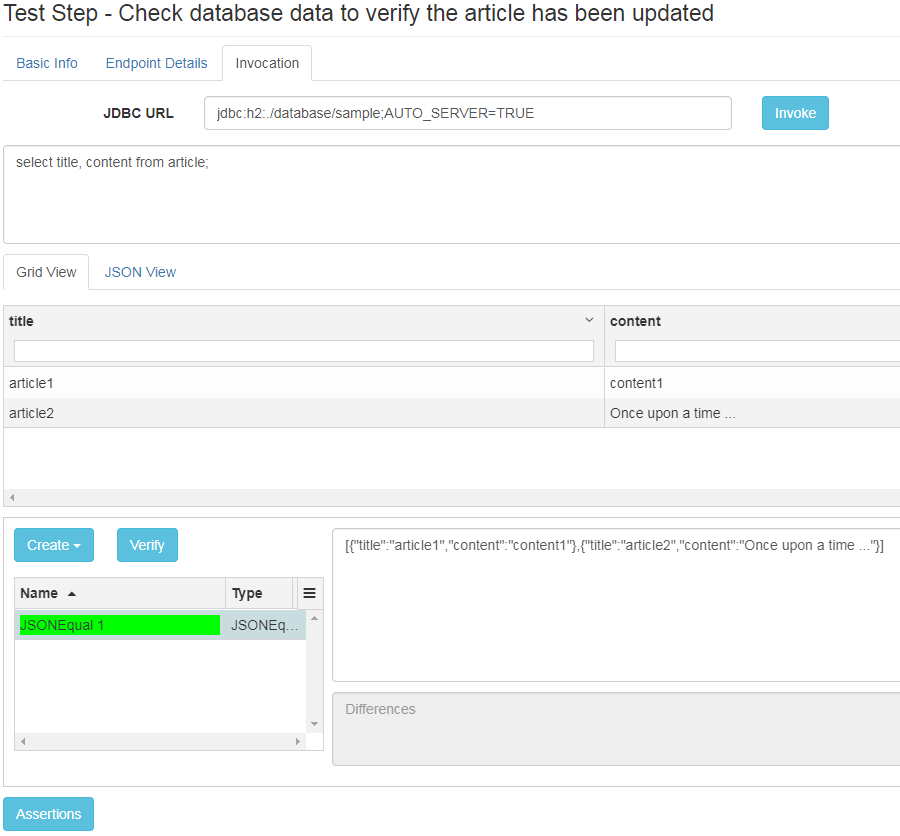
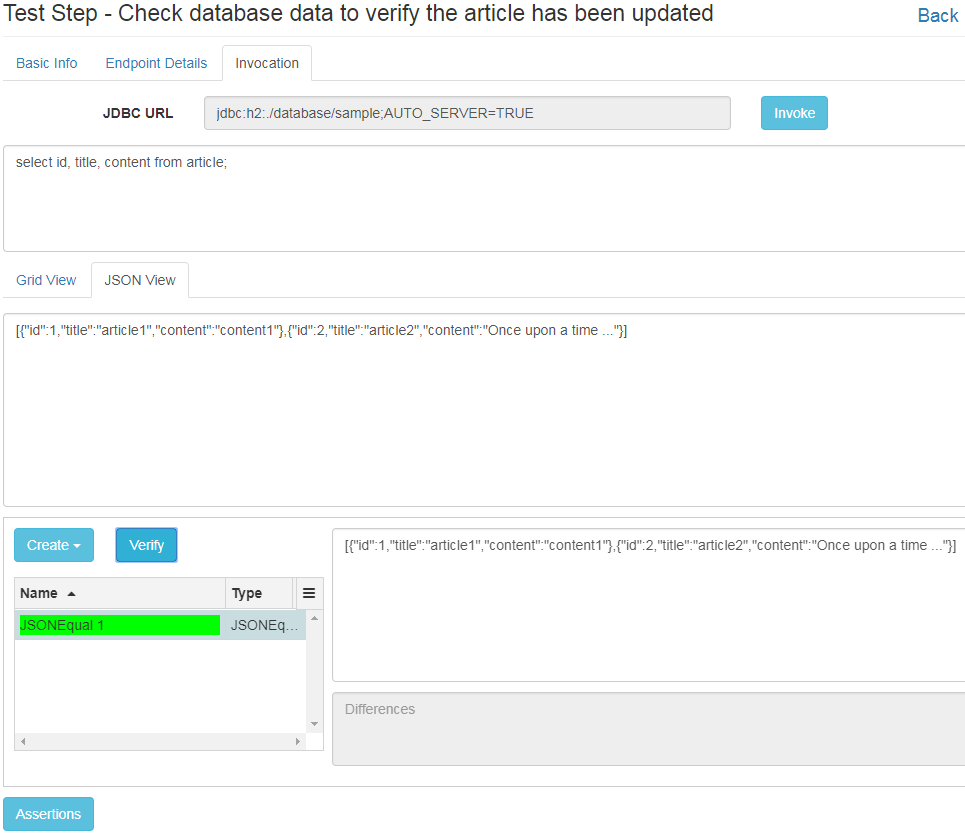
update readme

diff --git a/README.md b/README.md
@@ -93,8 +93,8 @@ Under the Invocation tab, enter below SQL script.
 delete from article;
 
 -- Create two article records
-insert into article (title, content) values ('article1', 'content1');
-insert into article (title, content) values ('article2', 'content2');
+insert into article (id, title, content) values (1, 'article1', 'content1');
+insert into article (id, title, content) values (2, 'article2', 'content2');
 ```
 
 Click the Invoke button to try it out (run the script), like shown below.
@@ -125,7 +125,7 @@ Click the name of step 3 to open its edit view.
  
 Under the Endpoint Details tab, enter exactly the same information as in step 1 because we are interacting with the same database. The information duplication can be avoided by using `managed endpoints`. Refer to this [wiki page](https://github.com/zheng-wang/irontest/wiki/Endpoints-Management) for more details.
 
-Under the Invocation tab, enter SQL query `select title, content from article;`.
+Under the Invocation tab, enter SQL query `select id, title, content from article;`.
 
 Click the Invoke button to try it out (run the query), like shown below.
 
